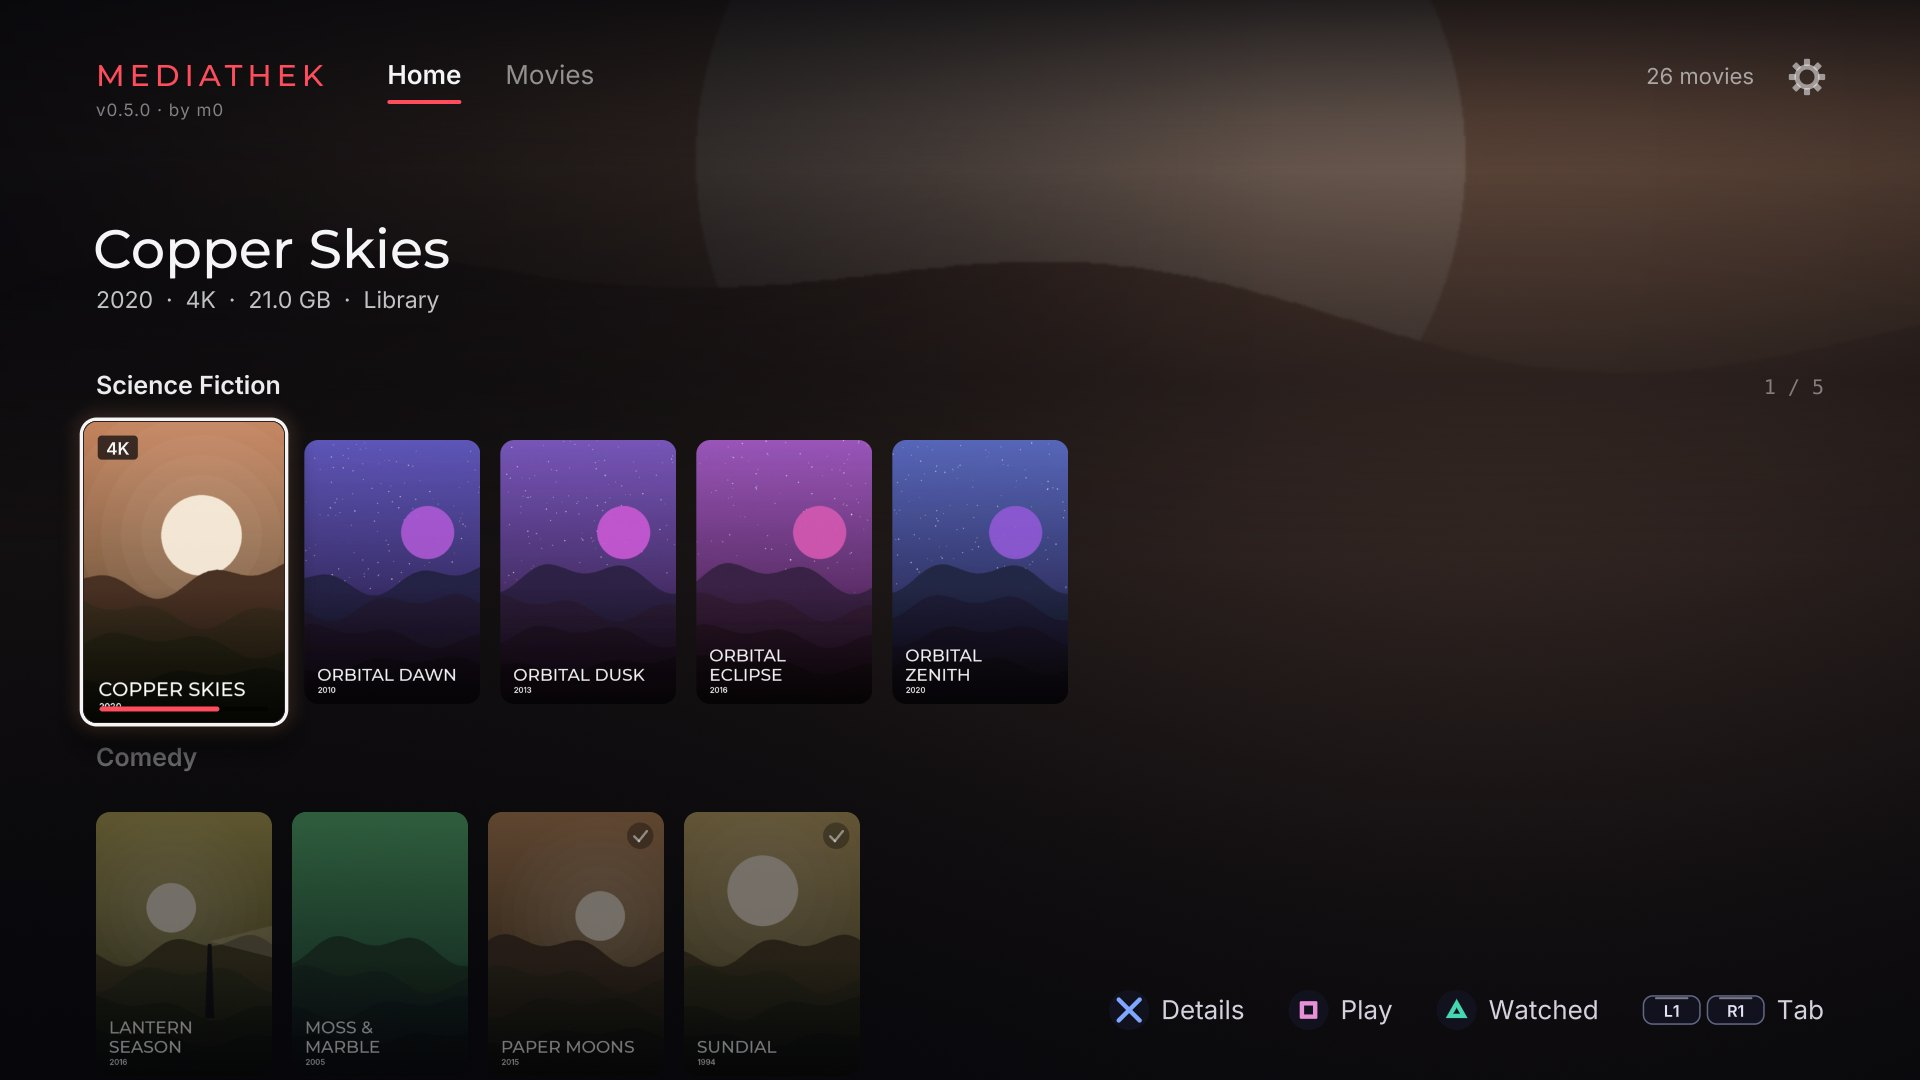
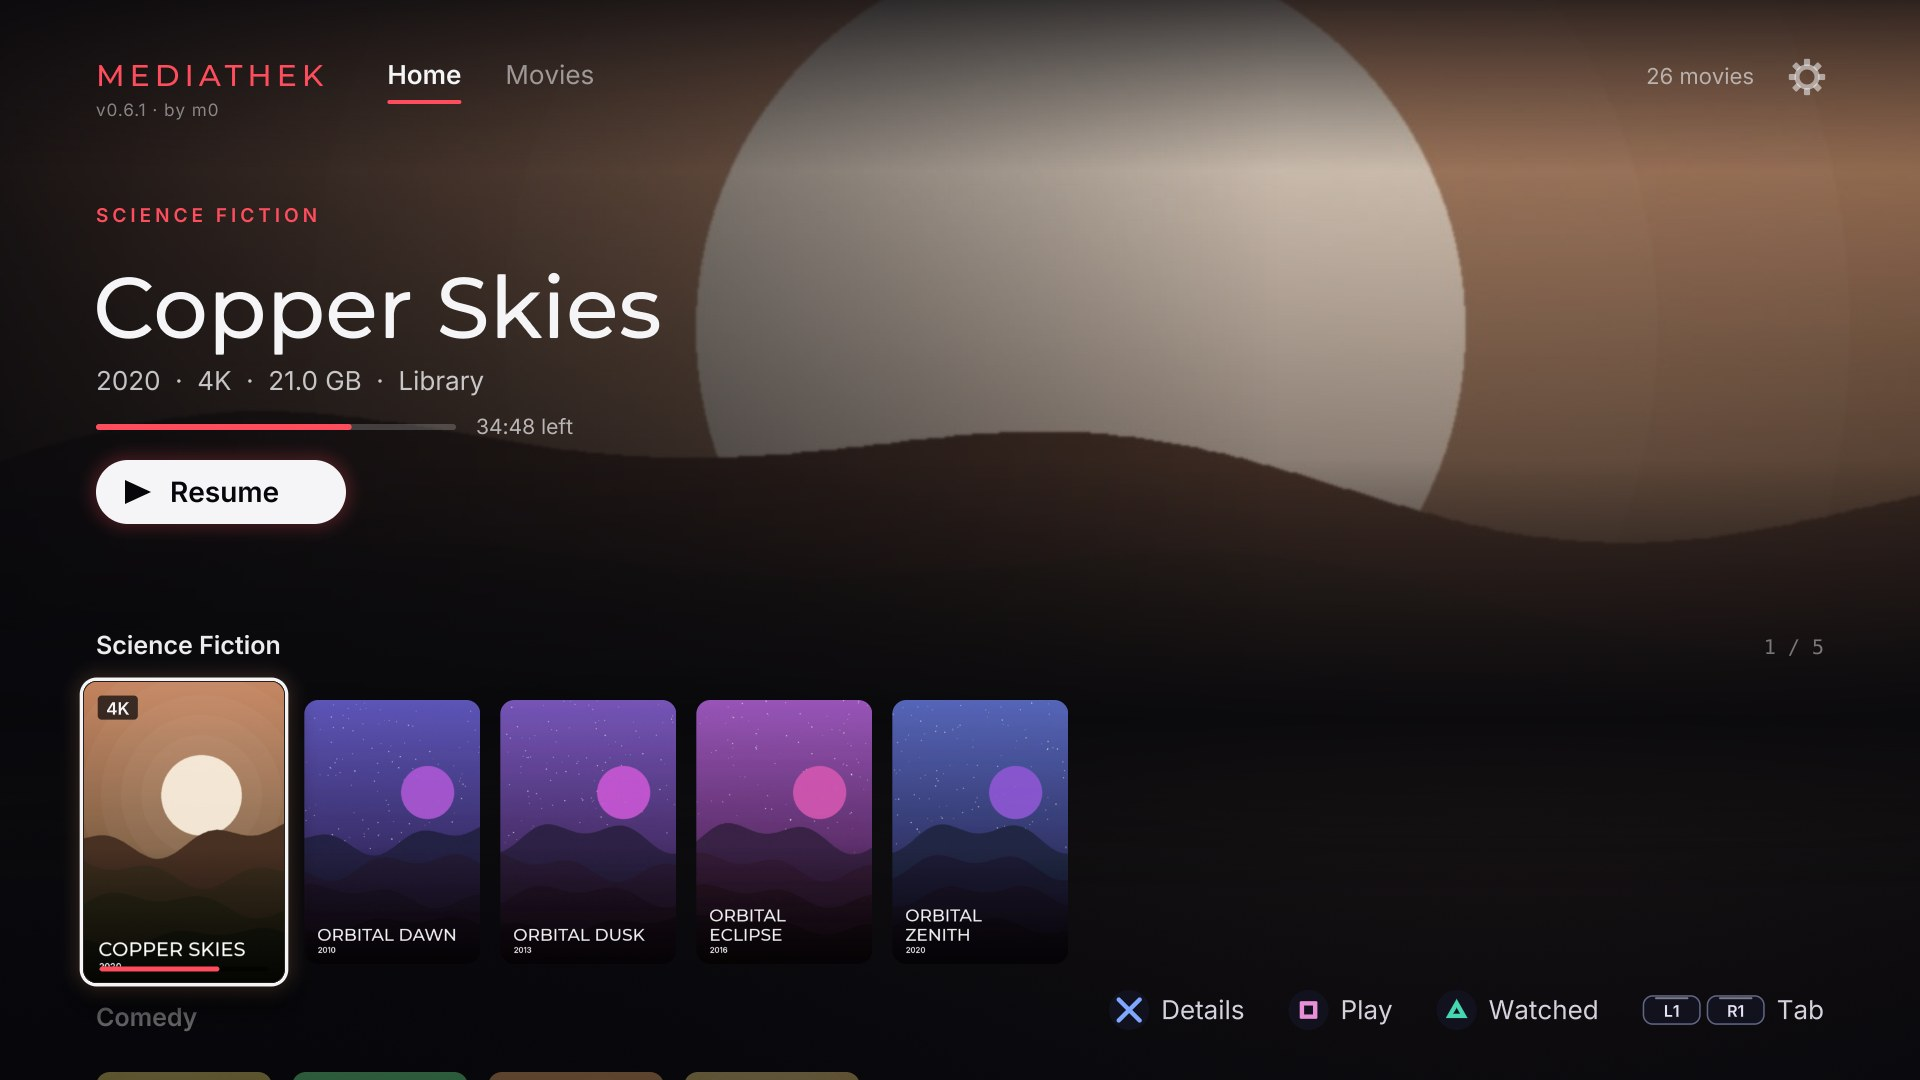
Fix the billboard, add the build stamp to Settings, announce scans in the app (0.6.1)
Fixed billboard is on by default and the Home billboard has only the Play
button. The Settings page shows the version and build time. The scan helper
no longer posts "found N movies"; the app shows it as a small message.

diff --git a/src/concepts/mediathek.cpp b/src/concepts/mediathek.cpp
@@ -21,6 +21,7 @@
 
 #include "concepts/concepts.hpp"
 
+#include "core/build_info.hpp"
 #include "core/i18n.hpp"
 #include "core/save_file.hpp"
 #include "core/tween.hpp"
@@ -88,6 +89,7 @@ constexpr float kGridTop = 232.0f;
 // Cards scrolling up under the "All Movies" header fade out above this line.
 constexpr float kGridFadeTop = kGridTop - 34.0f;
 
+constexpr const char *kAppVersion = "0.6.1"; // equals contentVersion 01.000.061 in param.json
 constexpr float kOsdSeconds = 4.0f;
 constexpr float kSeekHoldGap = 0.5f;   // a pause this long in the repeats ends a hold
 constexpr double kSeekHeldStep = 30.0; // first held step, and what each held second adds
@@ -340,6 +342,18 @@ class Mediathek final : public app::Concept
                 toast_ = cover_note_;
                 toast_time_ = 4.5f;
             }
+        }
+
+        if (svc_->scan_found >= 0)
+        {
+            // The small message at the bottom once a scan has finished, after "Looking for
+            // movies...". It is the app's own: the helper payload cannot post one of its own
+            // that fits the app.
+            notify(feedback,
+                   i18n::format(Text::scan_found,
+                                i18n::movie_count(static_cast<std::size_t>(svc_->scan_found))),
+                   audio::Cue::notify);
+            svc_->scan_found = -1;
         }
 
         switch (screen_)
@@ -720,7 +734,7 @@ class Mediathek final : public app::Concept
         settings_form_.add_toggle(kRowUiSounds, tr(Text::settings_ui_sounds), true).description =
             tr(Text::settings_ui_sounds_hint);
         settings_form_.add_header(tr(Text::settings_home));
-        settings_form_.add_toggle(kRowPinBillboard, tr(Text::settings_pin_billboard), false)
+        settings_form_.add_toggle(kRowPinBillboard, tr(Text::settings_pin_billboard), true)
             .description = tr(Text::settings_pin_billboard_hint);
         settings_form_.add_header(tr(Text::settings_developer));
         settings_form_.add_toggle(kRowDebug, tr(Text::settings_debug), false).description =
@@ -1540,6 +1554,12 @@ class Mediathek final : public app::Concept
                  kInk.with_alpha(0.5f), gfx::Align::right);
         ui::Canvas canvas{list, fonts, 0, clock_};
         settings_form_.draw(canvas);
+        // Which build this is, bottom left where the hints leave room; the date and time say
+        // whether the console runs the build you just made.
+        std::string build = std::string("v") + kAppVersion;
+        if (const std::string stamp = build_time(); !stamp.empty())
+            build += std::string("  \xC2\xB7  ") + tr(Text::settings_built) + " " + stamp;
+        ui::text(list, fonts.regular, build, kMargin, 1018.0f, 20, kInk.with_alpha(0.5f));
         list.pop_opacity();
     }
 
@@ -1572,8 +1592,8 @@ class Mediathek final : public app::Concept
         float x = ui::text(list, fonts.display, "MEDIATHEK", kMargin, y, 30, kAccent,
                            gfx::Align::left, 5.0f);
         // Version and author, small, under the logo.
-        ui::text(list, fonts.regular, "v0.6.0 \xC2\xB7 by m0", kMargin, y + 30, 17,
-                 kInk.with_alpha(0.5f), gfx::Align::left, 1.0f);
+        ui::text(list, fonts.regular, std::string("v") + kAppVersion + " \xC2\xB7 by m0", kMargin,
+                 y + 30, 17, kInk.with_alpha(0.5f), gfx::Align::left, 1.0f);
         x = kMargin + x + 64.0f;
         const char *tabs[] = {tr(Text::tab_home), tr(Text::tab_movies)};
         for (int i = 0; i < 2; ++i)
@@ -1690,12 +1710,6 @@ class Mediathek final : public app::Concept
             list.triangle({play.x + 30, play.cy() - 13, 24, 26}, kBlack, 0.0f, 1.5708f);
             ui::text(list, fonts.semibold, tr(resuming ? Text::button_resume : Text::button_play),
                      play.x + 74, play.cy() + 10, 28, kBlack);
-            const Rect more{play.x + play.w + 20, by, 214, 64};
-            list.bordered_rect(more, 32, kInk.with_alpha(0.1f), 2, kInk.with_alpha(0.32f));
-            ui::draw_button(list, fonts, ui::GlyphStyle::dark(), ui::Button::cross, more.x + 20,
-                            more.cy(), 34);
-            ui::text(list, fonts.semibold, tr(Text::button_details), more.x + 70, more.cy() + 10,
-                     26, kInk);
             list.pop_opacity();
         }
         list.pop_opacity();

diff --git a/tests/unit/mediathek_test.cpp b/tests/unit/mediathek_test.cpp
@@ -436,10 +436,10 @@ TEST_F(MediathekTest, TheTogglesChangeTheSettingsAtOnceAndSayThatTheyChanged)
     EXPECT_EQ(settings_.ui_volume, hui::Settings{}.ui_volume);
 
     send(*design, nav(Direction::down), 0.3f);
-    ASSERT_FALSE(settings_.pin_billboard);
+    ASSERT_TRUE(settings_.pin_billboard); // on unless the viewer turned it off
     context_.settings_changed = false;
     send(*design, press(Action::confirm), 0.4f); // fixed billboard
-    EXPECT_TRUE(settings_.pin_billboard);
+    EXPECT_FALSE(settings_.pin_billboard);
     EXPECT_TRUE(context_.settings_changed);
 
     send(*design, nav(Direction::down), 0.3f);
@@ -454,6 +454,7 @@ TEST_F(MediathekTest, TheBillboardCollapsesBelowTheFirstShelfUnlessItIsFixed)
 {
     fill_library();
     add_second_shelf();
+    settings_.pin_billboard = false;
     auto design = make();
     ASSERT_EQ(play_pills(*design), 1); // open on the first shelf
     send(*design, nav(Direction::down), 1.0f);
@@ -467,6 +468,31 @@ TEST_F(MediathekTest, TheBillboardCollapsesBelowTheFirstShelfUnlessItIsFixed)
     expect_drawable(*design);
     send(*design, nav(Direction::up), 1.0f);
     EXPECT_EQ(play_pills(*design), 1);
+}
+
+TEST_F(MediathekTest, TheBillboardIsFixedByDefault)
+{
+    EXPECT_TRUE(hui::Settings{}.pin_billboard);
+    fill_library();
+    add_second_shelf();
+    auto design = make();
+    send(*design, nav(Direction::down), 1.0f);
+    EXPECT_EQ(play_pills(*design), 1);
+}
+
+TEST_F(MediathekTest, ASmallMessageSaysHowManyMoviesAScanFound)
+{
+    fill_library();
+    auto design = make();
+    send(*design, idle(), 0.1f);
+    EXPECT_FALSE(played(audio::Cue::notify));
+    services_.scan_found = 4;
+    send(*design, idle(), 0.1f);
+    EXPECT_TRUE(played(audio::Cue::notify)); // whatever the Debug info setting says
+    EXPECT_EQ(services_.scan_found, -1);     // said once
+    send(*design, idle(), 0.1f);
+    EXPECT_FALSE(played(audio::Cue::notify));
+    expect_drawable(*design);
 }
 
 TEST_F(MediathekTest, TheSettingsPageShowsWhatWasSaved)

diff --git a/tests/unit/save_file_test.cpp b/tests/unit/save_file_test.cpp
@@ -84,7 +84,7 @@ TEST(Settings, RoundTripsEveryField)
     settings.resolution = 1;
     settings.hint_size = 2;
     settings.concept_index = 7;
-    settings.pin_billboard = true;
+    settings.pin_billboard = false;
     hui::Settings read;
     ASSERT_TRUE(hui::decode_settings(hui::encode_settings(settings), &read));
     EXPECT_EQ(read.music_volume, 3);
@@ -98,22 +98,23 @@ TEST(Settings, RoundTripsEveryField)
     EXPECT_EQ(read.resolution, 1);
     EXPECT_EQ(read.hint_size, 2);
     EXPECT_EQ(read.concept_index, 7);
-    EXPECT_TRUE(read.pin_billboard);
+    EXPECT_FALSE(read.pin_billboard);
     EXPECT_FLOAT_EQ(hui::Settings::gain(10), 1.0f);
     EXPECT_FLOAT_EQ(hui::Settings::gain(0), 0.0f);
 }
 
 // Files saved before the billboard setting existed hold one byte less and the old version.
-TEST(Settings, AFileFromBeforeTheFixedBillboardStillLoadsWithItOff)
+TEST(Settings, AFileFromBeforeTheFixedBillboardStillLoadsWithItsDefault)
 {
     std::string data = hui::encode_settings(hui::Settings{});
     data.pop_back();
     data[0] = 1;
     hui::Settings read;
-    read.pin_billboard = true;
+    read.pin_billboard = false;
     read.music_volume = 2;
     ASSERT_TRUE(hui::decode_settings(data, &read));
-    EXPECT_FALSE(read.pin_billboard);
+    EXPECT_EQ(read.pin_billboard, hui::Settings{}.pin_billboard);
+    EXPECT_TRUE(read.pin_billboard);
     EXPECT_EQ(read.music_volume, hui::Settings{}.music_volume);
 
     EXPECT_FALSE(hui::decode_settings(data.substr(0, data.size() - 1), &read)); // cut short

diff --git a/src/core/build_info.cpp b/src/core/build_info.cpp
@@ -1,0 +1,35 @@
+// Mediathek - When this build was made, for the settings page.
+// Copyright (C) 2026 BlackBearReloaded
+// SPDX-License-Identifier: GPL-3.0-or-later
+
+#include "core/build_info.hpp"
+
+#include <cstdio>
+#include <cstring>
+
+namespace hui
+{
+
+std::string build_time()
+{
+    // __DATE__ is "Oct 31 2026" (day padded with a space), __TIME__ "18:33:07": always English
+    // and in the compiler's own format, so it is turned into a form that reads the same in
+    // every language.
+    constexpr const char *kMonths = "JanFebMarAprMayJunJulAugSepOctNovDec";
+    const char *date = __DATE__;
+    const char *time = __TIME__;
+    if (std::strlen(date) != 11 || std::strlen(time) != 8)
+        return {};
+    int month = 0;
+    for (int i = 0; i < 12; ++i)
+        if (std::strncmp(date, kMonths + i * 3, 3) == 0)
+            month = i + 1;
+    if (month == 0)
+        return {};
+    char text[24];
+    std::snprintf(text, sizeof(text), "%.4s-%02d-%c%c %.5s", date + 7, month,
+                  date[4] == ' ' ? '0' : date[4], date[5], time);
+    return text;
+}
+
+} // namespace hui

diff --git a/src/core/settings.hpp b/src/core/settings.hpp
@@ -24,9 +24,9 @@ struct Settings
     bool show_fps = false;
     bool haptics = true;   // controller rumble on errors and big moments
     bool light_bar = true; // the controller's light follows the design's accent
-    // Mediathek: the Home billboard (art, title, Play and Details) stays while the
-    // shelves under it scroll, instead of collapsing once the first shelf is left.
-    bool pin_billboard = false;
+    // Mediathek: the Home billboard (art, title and Play) stays while the shelves under it
+    // scroll, instead of collapsing once the first shelf is left.
+    bool pin_billboard = true;
     // Display resolution, an index into kResolutions; applies at the next start.
     int resolution = 2;
     // How large on-screen controller hints are: 0 small, 1 medium, 2 large.

diff --git a/tests/unit/build_info_test.cpp b/tests/unit/build_info_test.cpp
@@ -1,0 +1,24 @@
+// Mediathek - Build stamp tests.
+// Copyright (C) 2026 BlackBearReloaded
+// SPDX-License-Identifier: GPL-3.0-or-later
+
+#include "core/build_info.hpp"
+
+#include <gtest/gtest.h>
+
+#include <cctype>
+#include <string>
+
+TEST(BuildInfo, TheBuildTimeIsADateAndAMinute)
+{
+    const std::string stamp = hui::build_time();
+    ASSERT_EQ(stamp.size(), 16u); // 2026-10-31 18:33
+    for (std::size_t i = 0; i < stamp.size(); ++i)
+    {
+        const bool separator = i == 4 || i == 7 || i == 10 || i == 13;
+        if (separator)
+            EXPECT_EQ(stamp[i], i == 10 ? ' ' : (i == 13 ? ':' : '-')) << stamp;
+        else
+            EXPECT_TRUE(std::isdigit(static_cast<unsigned char>(stamp[i])) != 0) << stamp;
+    }
+}

diff --git a/src/media/services.hpp b/src/media/services.hpp
@@ -42,6 +42,9 @@ struct Services
     std::function<std::string(const std::string &id)> refetch_cover;
     // What stops the covers coming ("No TMDB_API_KEY in mediathek.env"), or "".
     std::string cover_note;
+    // Set by the platform when a scan finished: how many movies it found, -1 when there is
+    // nothing to announce. The screen says it (if the viewer wants debug messages) and resets it.
+    int scan_found = -1;
     // One line about the scan for the empty screen: "Waiting for the ELF loader".
     std::string scan_note;
     // Wall-clock seconds since the epoch; resume points are stamped with it.

diff --git a/src/core/build_info.hpp b/src/core/build_info.hpp
@@ -1,0 +1,16 @@
+// Mediathek - When this build was made, for the settings page.
+// Copyright (C) 2026 BlackBearReloaded
+// SPDX-License-Identifier: GPL-3.0-or-later
+
+#pragma once
+
+#include <string>
+
+namespace hui
+{
+
+// The date and time the binary was compiled, "2026-10-31 18:33", or "" if the compiler left
+// them out. The build script touches build_info.cpp on every run so the stamp is the build's.
+std::string build_time();
+
+} // namespace hui

diff --git a/src/core/settings.cpp b/src/core/settings.cpp
@@ -13,7 +13,7 @@ namespace hui
 
 namespace
 {
-// Version 2 appends pin_billboard; version 1 files are still read (it stays off).
+// Version 2 appends pin_billboard; version 1 files are still read (it keeps its default).
 constexpr std::uint8_t kVersion = 2;
 constexpr std::uint8_t kVersionWithoutPin = 1;
 } // namespace

diff --git a/src/main.cpp b/src/main.cpp
@@ -462,6 +462,7 @@ int main()
             if (status == ps5::Scanner::Status::done)
             {
                 adopt(found);
+                services.scan_found = static_cast<int>(services.library.size());
                 services.scanning = false;
                 services.scan_note.clear();
             }

diff --git a/helper/mt-scan.c b/helper/mt-scan.c
@@ -231,6 +231,6 @@ main(void) {
     notify("Mediathek: can't write " INDEX);
     return 1;
   }
-  notify("Mediathek: found %ld movies", g_videos);
+  /* The app says how many it found, when its Debug info setting is on. */
   return 0;
 }

diff --git a/AGENTS.md b/AGENTS.md
@@ -153,7 +153,7 @@ folder's git repository and takes more than two minutes; use a long timeout.
   commit, the tag, the push and the GitHub release (zip and `.sha256` from `dist/release`).
   When asked: small commits, one-line imperative subject.
 - A release tag must equal `sce_sys/param.json` `contentVersion` exactly
-  (`01.000.060` is the app's 0.6.0); the app shows the short form (`v0.6.0` in
+  (`01.000.061` is the app's 0.6.1); the app shows the short form (`kAppVersion` in
   `mediathek.cpp`). Change both, `README.md` (Status) and `CHANGELOG.md` together.
 - Never commit build output, console evidence, addresses of machines, personal
   paths or credentials.
@@ -166,6 +166,9 @@ and subtitles next to the app and writes `mediathek-index.txt`, which the app
 reads as `/app0/mediathek-index.txt`. Without a loader the app starts and finds
 nothing. The install folder `/data/homebrew/PPSA66120` is `/app0` inside the app.
 
+**The scan helper is silent.** It posts a console notification only when it fails. The "Found N
+movies" message after a scan is the app's own toast at the bottom (`Services::scan_found`).
+
 **Where things are written.** App-writable storage is `/download0/hui`: covers,
 wallpapers and descriptions in `covers/` (a description is `<id>.txt`; an empty
 one is stored as `"\n"` so TMDB is not asked again, because `CoverStore::exists`
@@ -175,9 +178,11 @@ none), what a file contains in `info/<id>.info`, resume points beside them. Sett
 
 **The settings page.** The gear tab (`Tab::settings`, a `ui::Form` in `mediathek.cpp`)
 edits the kit's `Settings`: *UI sounds* is `ui_volume` (0 off, else the default), *Debug
-info* is `show_fps` (the shell's overlay), *Fixed billboard* is `pin_billboard` (keeps
+info* is `show_fps` (the shell's overlay), *Fixed billboard* is `pin_billboard` (on by default; keeps
 `hero_` open on every shelf, `animate()`; the settings file is format version 2, version 1 still
-loads). A change sets `context_.settings_changed`;
+loads with the default). The page's bottom left shows the version and `build_time()`
+(`core/build_info.cpp`, `__DATE__`/`__TIME__`; `tools/build.sh` touches the file so every build
+stamps it). A change sets `context_.settings_changed`;
 the shell saves `/download0/hui/settings.bin` 0.75 s after the last one, and `main.cpp`
 (`apply_ui_sounds`, also at start-up) mutes the `ui` and `sfx` mixer buses. The music bus
 is deliberately left at its tuned gain; do not route the kit's volume curve through it.
